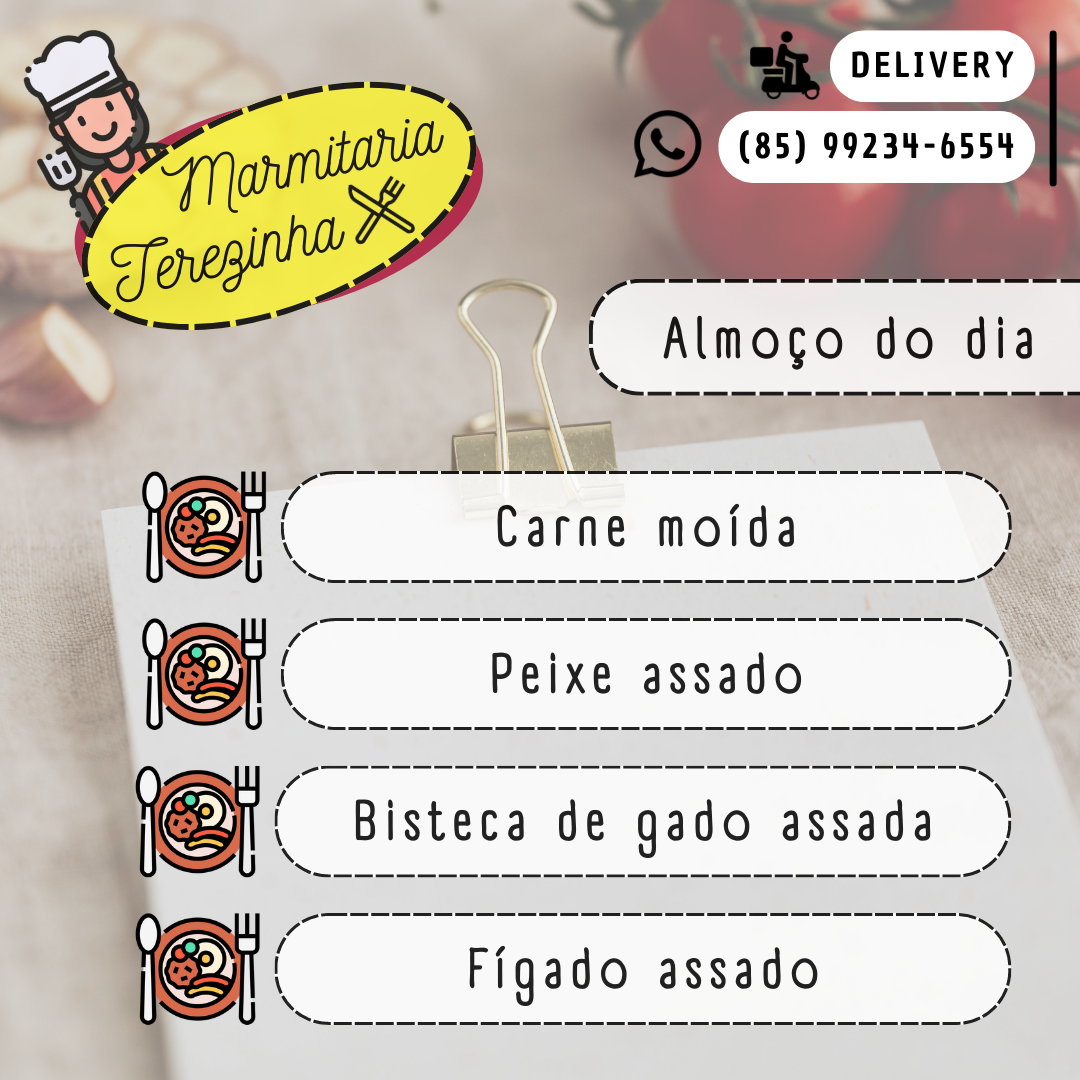
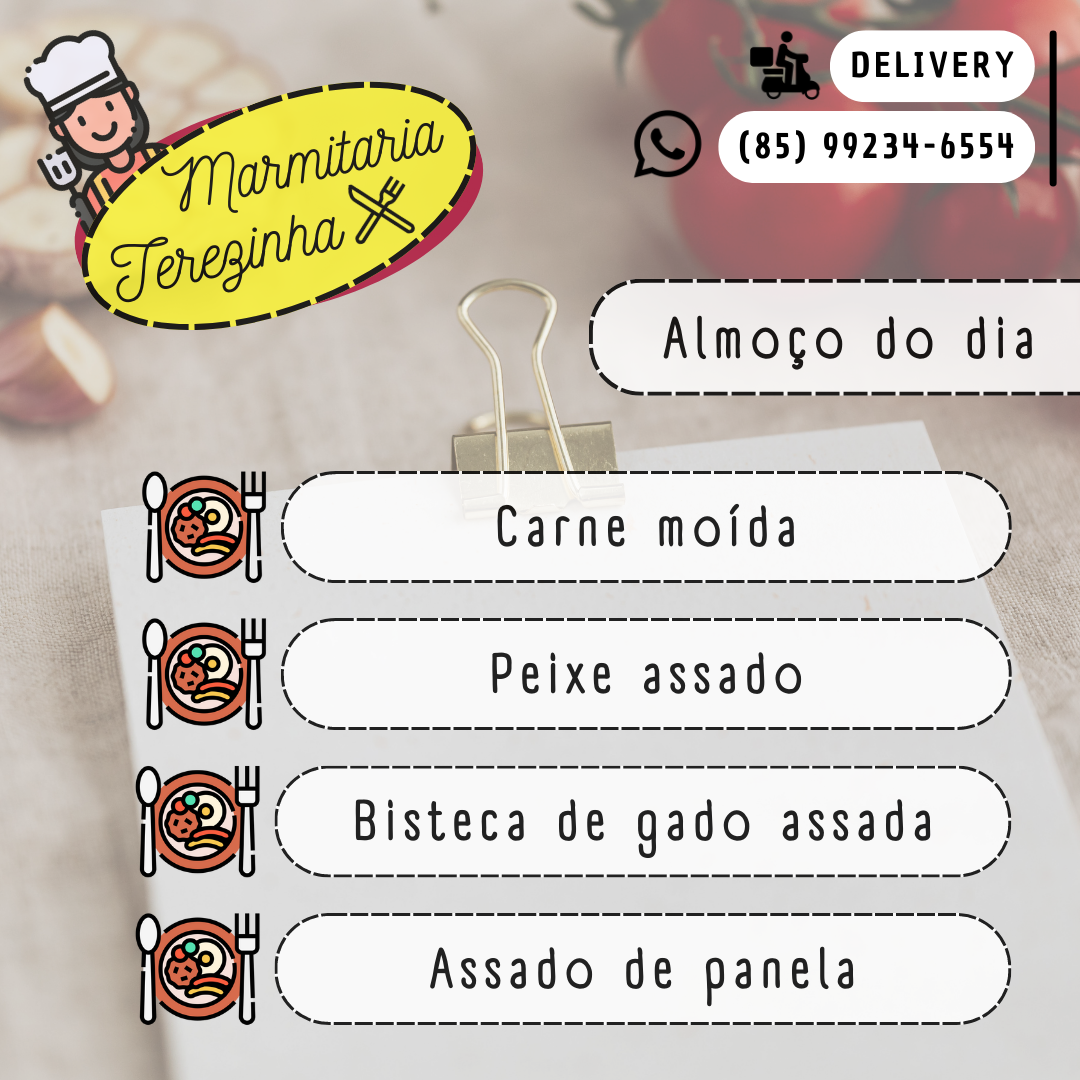
Atualização da imagem do cardápido de segunda

Changed region(s): [[0.3972, 0.8556, 0.6722, 0.9167], [0.7028, 0.8861, 0.7944, 0.9167]]

diff --git a/assets/scripts/changeMenu.js b/assets/scripts/changeMenu.js
@@ -26,7 +26,7 @@ switch (weekday) {
   case 1:
     console.log('Hoje é segunda-feira!')
     meal01.textContent = 'Carne moída'
-    meal02.textContent = 'Peixe assado'
+    meal02.textContent = 'Peixe assado"'
     meal03.textContent = 'Bisteca de gado assada'
     meal04.textContent = 'Assado de panela'
     hasImage('./assets/img/menu/menuSeg.png', 'Segunda-feira | Marmitaria Terezinha')
